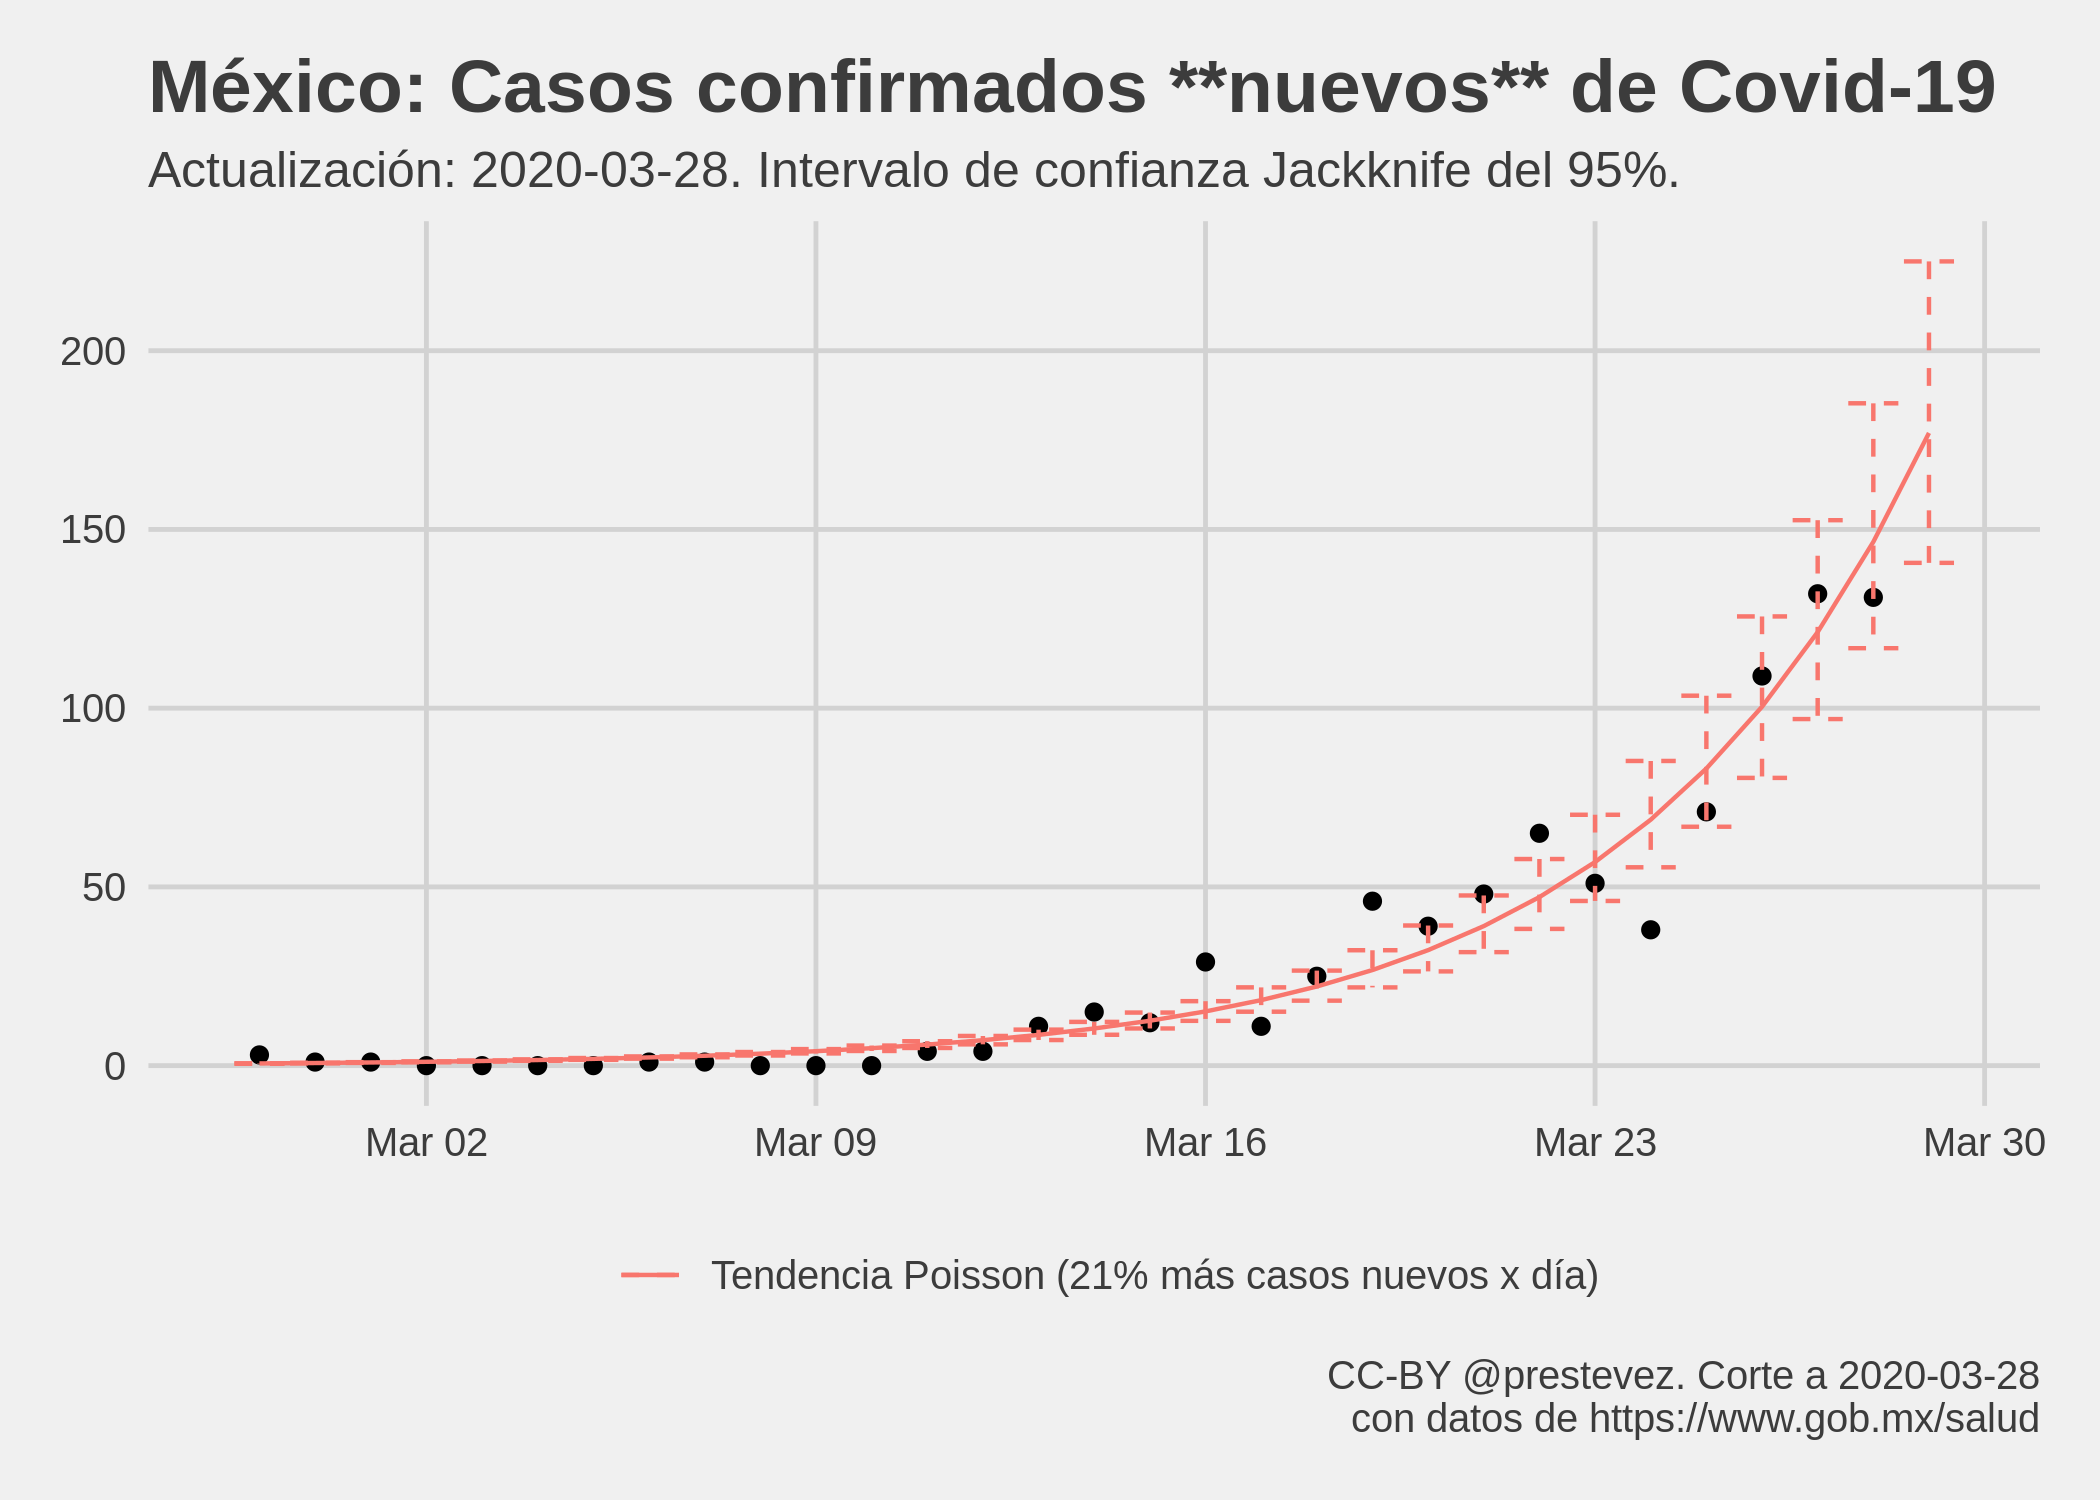
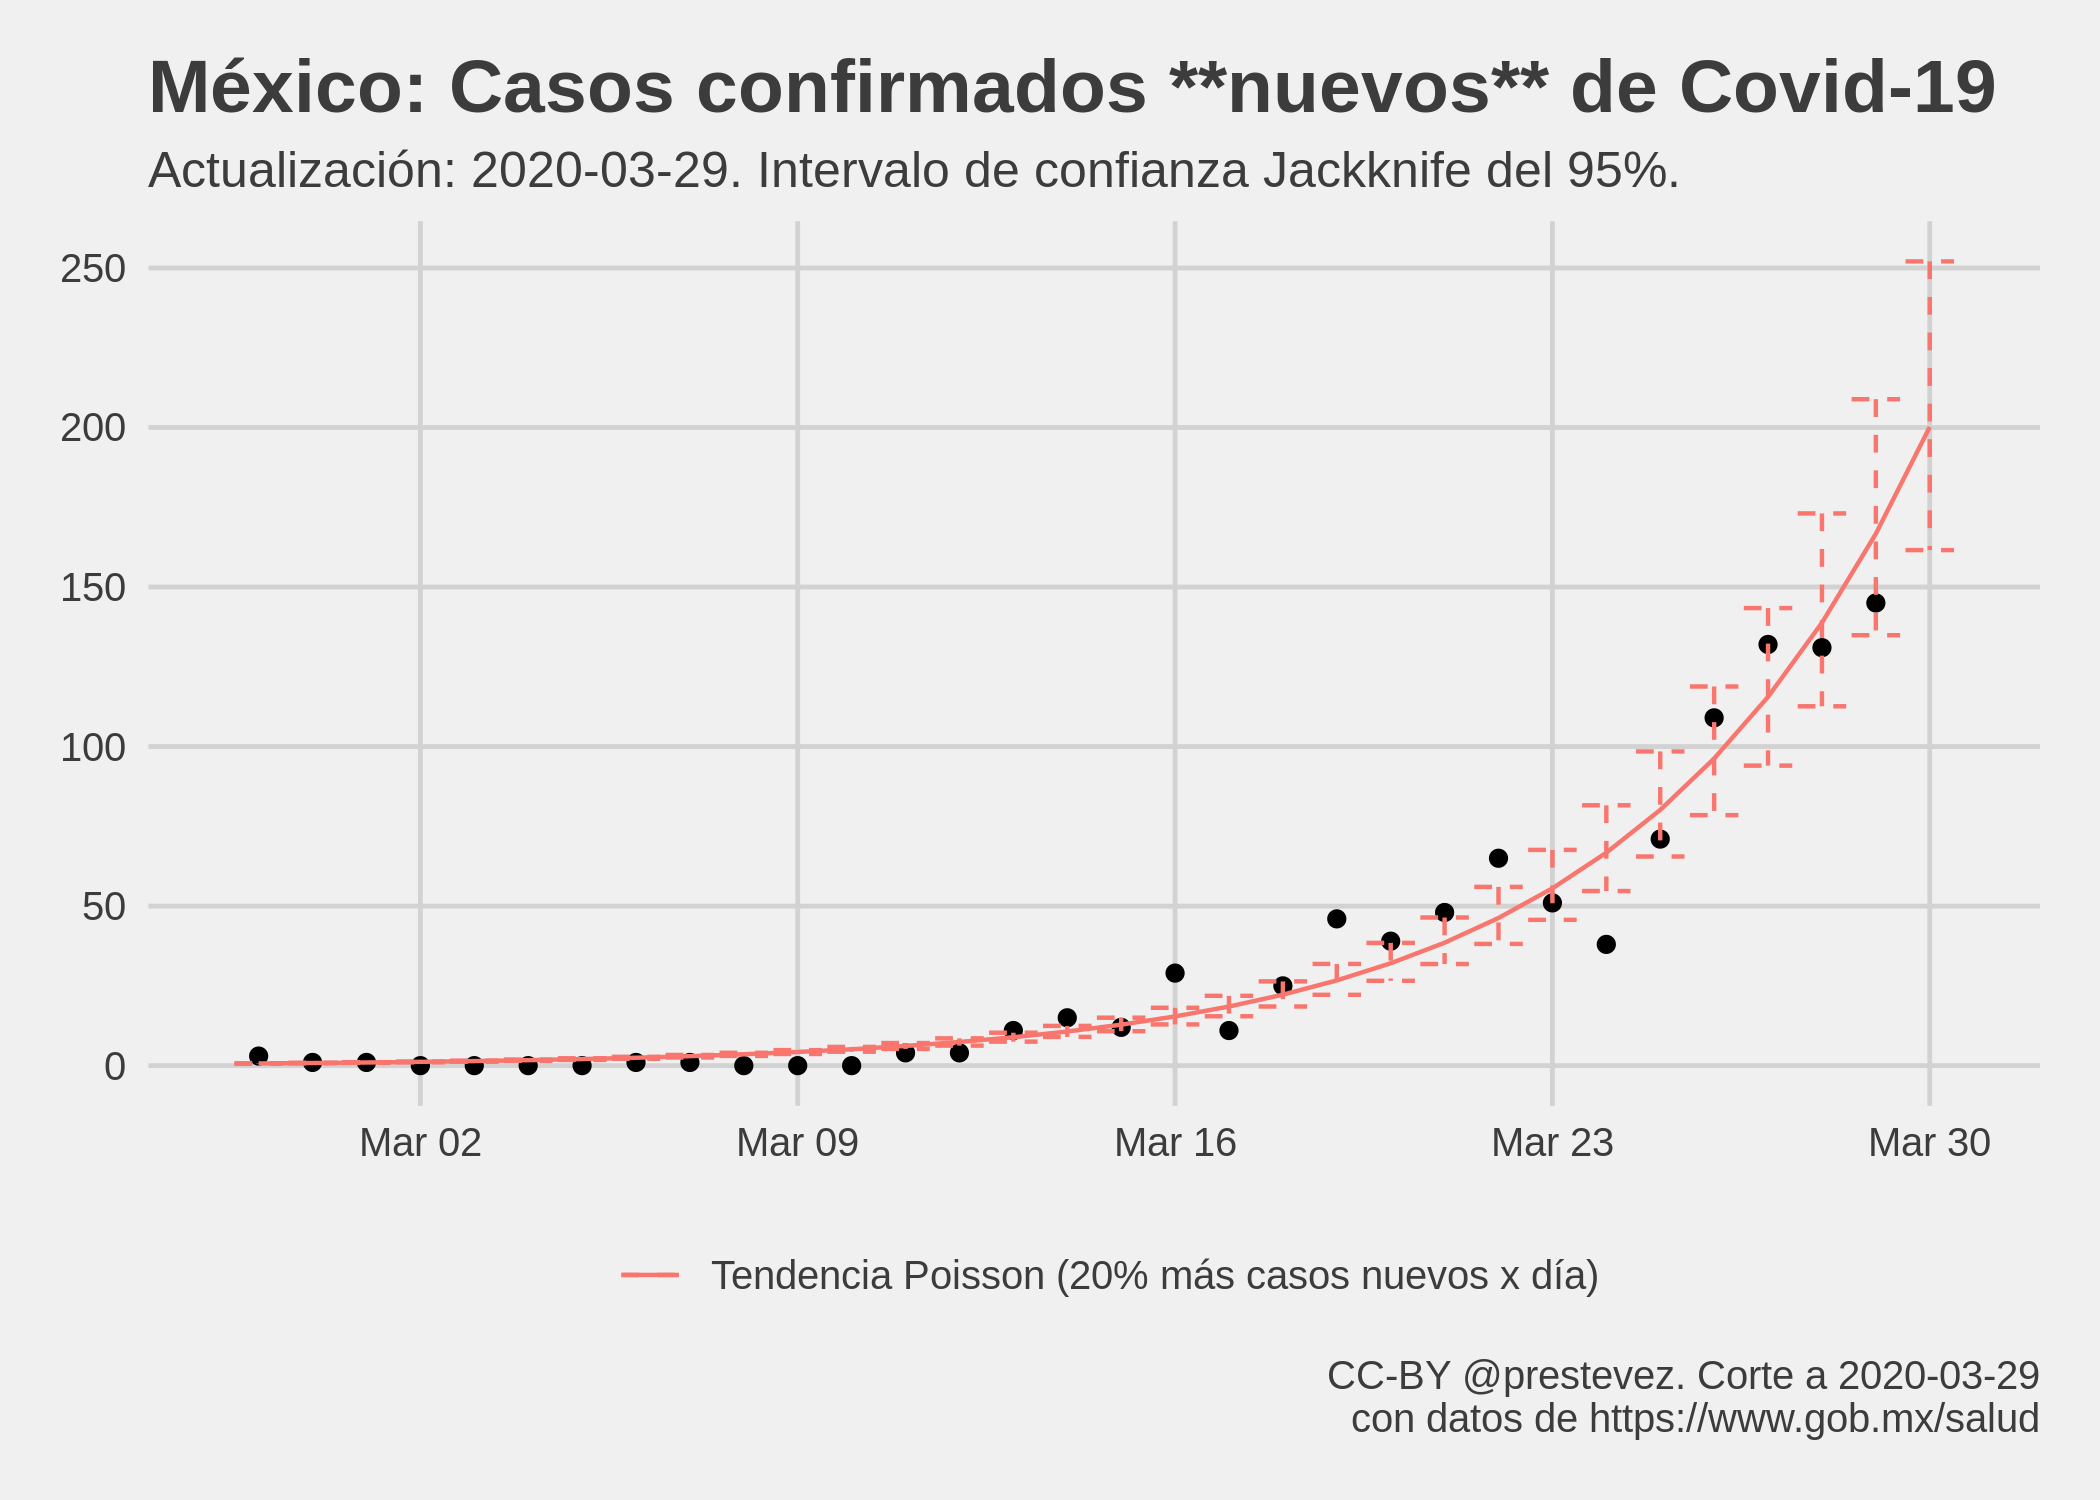
update 2020-03-29

diff --git a/README.md b/README.md
@@ -1,7 +1,7 @@
 Evolución de Covid-19 en México
 ================
 [Patricio R Estevez-Soto](https://twitter.com/prestevez).
-Actualizado: 2020-03-29 02:21:18 GMT
+Actualizado: 2020-03-30 09:30:48 GMT
 
 # Crecimiento de casos confirmados de Covid-19 en México
 
@@ -38,22 +38,22 @@ Parámetros del modelo predictivo:
     ## 
     ## Deviance Residuals: 
     ##     Min       1Q   Median       3Q      Max  
-    ## -26.839  -14.480   -6.636   -0.253   38.833  
+    ## -28.932  -17.955   -7.050    1.314   37.185  
     ## 
     ## Coefficients:
     ##             Estimate Std. Error t value Pr(>|t|)    
-    ## (Intercept) 1.086736   0.116121   9.359 4.07e-10 ***
-    ## t           0.189079   0.004155  45.508  < 2e-16 ***
+    ## (Intercept) 1.195559   0.103486   11.55 2.27e-12 ***
+    ## t           0.184791   0.003582   51.59  < 2e-16 ***
     ## ---
     ## Signif. codes:  0 '***' 0.001 '**' 0.01 '*' 0.05 '.' 0.1 ' ' 1
     ## 
-    ## (Dispersion parameter for gaussian family taken to be 280.9675)
+    ## (Dispersion parameter for gaussian family taken to be 310.1451)
     ## 
-    ##     Null deviance: 1586975.4  on 29  degrees of freedom
-    ## Residual deviance:    7867.1  on 28  degrees of freedom
-    ## AIC: 258.21
+    ##     Null deviance: 2256493.9  on 30  degrees of freedom
+    ## Residual deviance:    8994.5  on 29  degrees of freedom
+    ## AIC: 269.76
     ## 
-    ## Number of Fisher Scoring iterations: 6
+    ## Number of Fisher Scoring iterations: 5
 
 # Estimación de errores Jackknife
 
@@ -88,8 +88,8 @@ Parámetros Jackknife del modelo predictivo de casos:
     ## # A tibble: 2 x 4
     ##   var         Estimate ci_low ci_high
     ##   <chr>          <dbl>  <dbl>   <dbl>
-    ## 1 (Intercept)    1.08   1.01    1.11 
-    ## 2 t              0.189  0.188   0.192
+    ## 1 (Intercept)    1.19   1.12    1.22 
+    ## 2 t              0.185  0.184   0.187
 
 # Modelo de casos nuevos
 
@@ -122,39 +122,39 @@ Parámetros del modelo predictivo de casos nuevos:
     ## 
     ## Deviance Residuals: 
     ##     Min       1Q   Median       3Q      Max  
-    ## -4.0608  -1.5768  -0.8174   0.9308   3.3727  
+    ## -3.8308  -1.7042  -0.6686   1.2093   3.3786  
     ## 
     ## Coefficients:
     ##              Estimate Std. Error z value Pr(>|z|)    
-    ## (Intercept) -0.681607   0.177796  -3.834 0.000126 ***
-    ## t            0.188957   0.006896  27.400  < 2e-16 ***
+    ## (Intercept) -0.558873   0.164358   -3.40 0.000673 ***
+    ## t            0.183064   0.006172   29.66  < 2e-16 ***
     ## ---
     ## Signif. codes:  0 '***' 0.001 '**' 0.01 '*' 0.05 '.' 0.1 ' ' 1
     ## 
     ## (Dispersion parameter for poisson family taken to be 1)
     ## 
-    ##     Null deviance: 1388.09  on 29  degrees of freedom
-    ## Residual deviance:  104.94  on 28  degrees of freedom
-    ## AIC: 214.36
+    ##     Null deviance: 1613.9  on 30  degrees of freedom
+    ## Residual deviance:  109.2  on 29  degrees of freedom
+    ## AIC: 225.43
     ## 
     ## Number of Fisher Scoring iterations: 5
 
     ## # A tibble: 2 x 4
     ##   var         Estimate ci_low ci_high
     ##   <chr>          <dbl>  <dbl>   <dbl>
-    ## 1 (Intercept)   -0.683 -0.821  -0.602
-    ## 2 t              0.189  0.186   0.194
+    ## 1 (Intercept)   -0.561 -0.689  -0.486
+    ## 2 t              0.183  0.180   0.188
 
 # Casos esperados mañana
 
 Mañana se espera que el **total acumulado de casos confirmados** de
-Covid-19 alcance **1041**, con un intervalo de confianza Jackknife del
-95% entre **936** y **1166**, si la tendencia observada hasta hoy se
+Covid-19 alcance **1223**, con un intervalo de confianza Jackknife del
+95% entre **1106** y **1363**, si la tendencia observada hasta hoy se
 mantiene igual.
 
-Según el modelo de casos nuevos, mañana se esperan **177 casos
+Según el modelo de casos nuevos, mañana se esperan **200 casos
 confirmados nuevos**, con un intervalo de confianza Jackknife del 95%
-entre **141** y **225**, si la tendencia observada hasta hoy se mantiene
+entre **162** y **252**, si la tendencia observada hasta hoy se mantiene
 igual.
 
 Sin embargo, estas cifra muy probablemente estén equivocadas, pues el
@@ -186,6 +186,7 @@ Para el modelo del acumulado de casos:
 | 2020-03-26 |                      585 |     620.12 | \-35.12 |
 | 2020-03-27 |                      717 |     730.57 | \-13.57 |
 | 2020-03-28 |                      848 |     876.82 | \-28.82 |
+| 2020-03-29 |                      993 |    1041.24 | \-48.24 |
 
 Intervalos de confianza JK
 
@@ -196,6 +197,7 @@ Intervalos de confianza JK
 | 2020-03-26 |           585            |    511-768     |       No       |
 | 2020-03-27 |           717            |    636-846     |       No       |
 | 2020-03-28 |           848            |    792-968     |       No       |
+| 2020-03-29 |           993            |    936-1166    |       No       |
 
 Para el modelo de casos nuevos:
 
@@ -208,6 +210,7 @@ Para el modelo de casos nuevos:
 | 2020-03-26 |                     109 |      99.55 |    9.45 |
 | 2020-03-27 |                     132 |     124.43 |    7.57 |
 | 2020-03-28 |                     131 |     154.15 | \-23.15 |
+| 2020-03-29 |                     145 |     176.99 | \-31.99 |
 
 Intervalos de confianza JK, casos nuevos.
 
@@ -218,6 +221,7 @@ Intervalos de confianza JK, casos nuevos.
 | 2020-03-26 |           109           |     74-142     |       No       |
 | 2020-03-27 |           132           |     97-165     |       No       |
 | 2020-03-28 |           131           |    121-194     |       No       |
+| 2020-03-29 |           145           |    141-225     |       No       |
 
 # Discusión
 
@@ -226,7 +230,7 @@ confirmados de Covid-19 es consistente con ejercicios [realizados en
 otros países](https://doi.org/10.1016/S0140-6736\(20\)30627-9).
 
 La tendencia exponencial del modelo sugiere que **el número de casos
-confirmados se duplica cada 3.67 días**. Este ritmo es más rápido que
+confirmados se duplica cada 3.75 días**. Este ritmo es más rápido que
 [el observado a nivel
 global](https://ourworldindata.org/coronavirus#growth-of-cases-how-long-did-it-take-for-the-number-of-confirmed-cases-to-double),
 pero es consistente con los ritmos de crecimiento observados durante las
